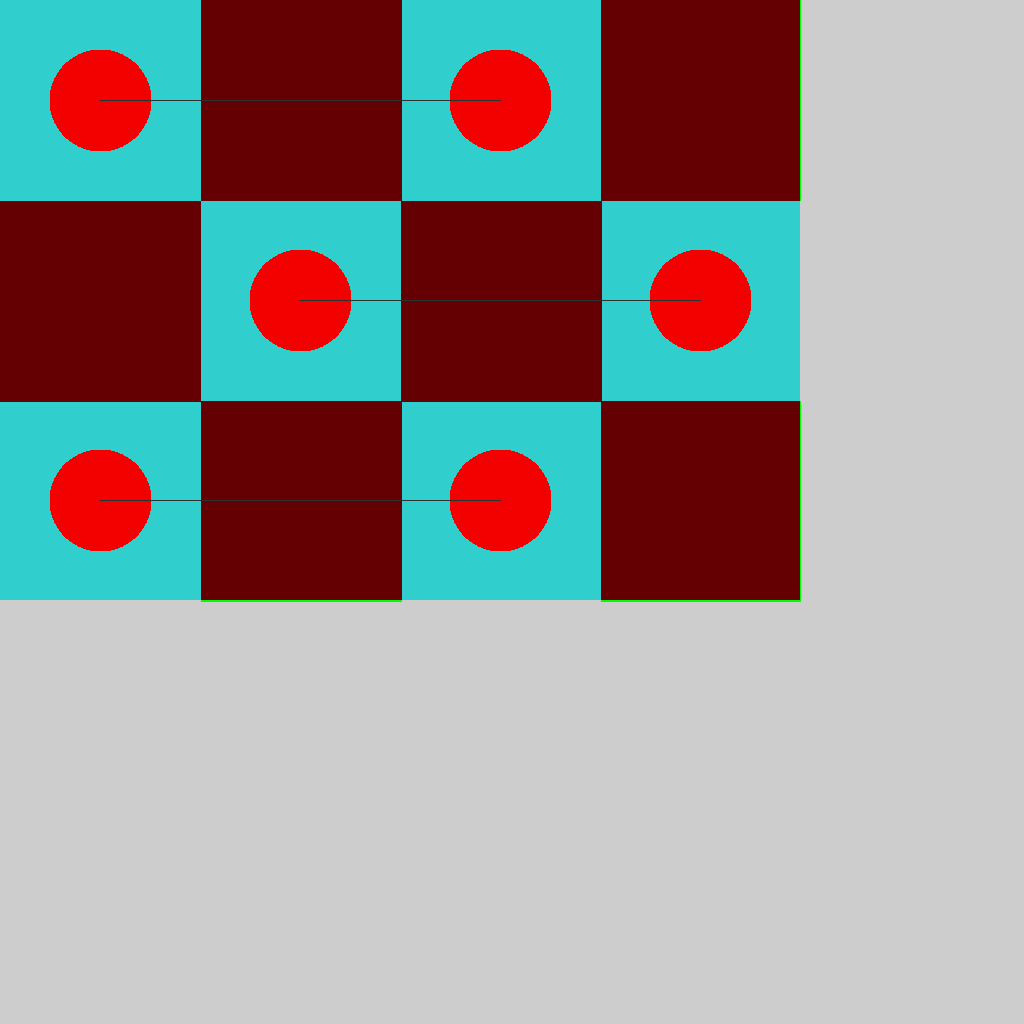
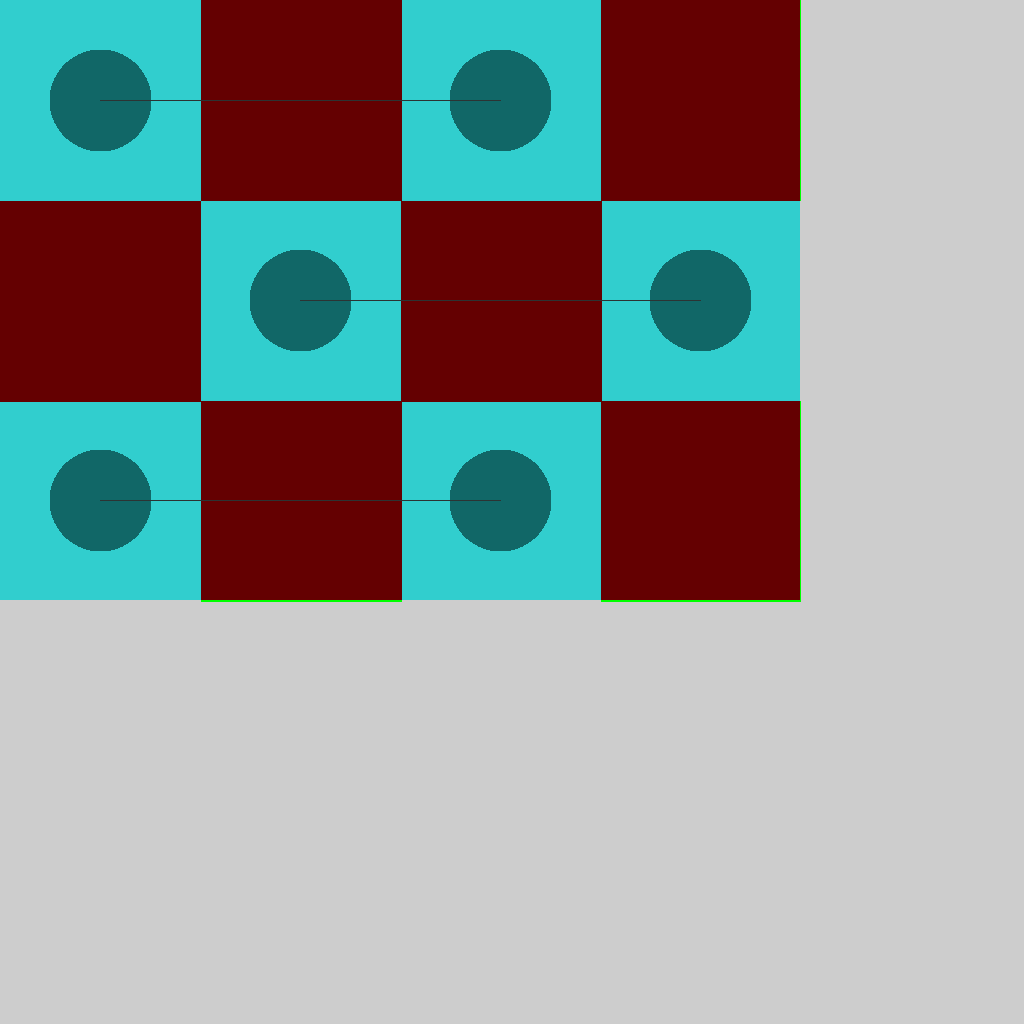
Added transparency to drawCircle method
Transparency functionality is based on Dr. Brinkman's idea for blending
the colors together during each iteration.  Still need to add comments
and check some variable names.  Also would still like to add a
convolution method before final submission

diff --git a/src/HW01App.cpp b/src/HW01App.cpp
@@ -73,31 +73,6 @@ void HW01App::clearBackground(uint8_t* pixels, int kAppWidth, int kAppHeight){
     }
 }
 
-/**void HW01App::makeLine ( uint8_t* pixels, int x0, int y0, int x1, int y1, Color8u c ){ 
-
-	 int     x;       
-	 float   dy, dx, y, m;
-
-
-	//formula from geometry
-	 dy = y1 - y0;
-	 dx = x1 - x0;
-
-	 m = dy / dx;
-	 y = y0;
-
-	for ( x = x0; x <= x1; x++ ) {
-		int index = 3 * (x + (y * kSurfaceSize)); 
-     
-		 pixels [index]=  c.r;
-		 pixels [index+1]= c.g;
-		 pixels [index+2]= c.b; 
-      
-				  y += m;    
-			   }			
-
-}
-*/
 void HW01App::tint(uint8_t* pixels, Color8u color)
 {	for(int y = 0; y < kWinHeight; y++){
 		for(int x = 0; x < kWinWidth; x++){	
@@ -120,9 +95,12 @@ void HW01App::drawCircle (uint8_t* pixels, int center_x, int center_y, int radiu
 			if(dist <= radius)
 			{
 					int offset = 3*(x + y*kSurfaceSize);
-					pixels[offset] = fill.r;
-					pixels[offset+1] = fill.g;
-					pixels[offset+2] = fill.b;
+					//pixels[offset] = fill.r;
+					//pixels[offset+1] = fill.g;
+					//pixels[offset+2] = fill.b;
+					pixels[offset] = pixels[offset]/2 + fill.r/2;
+					pixels[offset+1] = pixels[offset+1]/2 + fill.g/2;
+					pixels[offset+2] = pixels[offset+2]/2 + fill.b/2;
 			}
 		}
 	}
